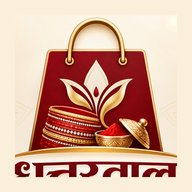
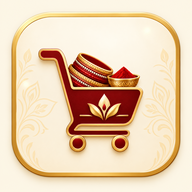
Add files via upload

diff --git a/admin.html b/admin.html
@@ -1,8 +1,8 @@
 <!DOCTYPE html><html lang="en"><head><meta charset="UTF-8"><meta name="viewport" content="width=device-width,initial-scale=1,viewport-fit=cover"><title>DSB Command Center</title><meta name="robots" content="noindex,nofollow"><link rel="preconnect" href="https://fonts.googleapis.com"><link rel="preconnect" href="https://fonts.gstatic.com" crossorigin><link href="https://fonts.googleapis.com/css2?family=Baloo+2:wght@600;700&family=Hind:wght@400;500;600;700&family=Rajdhani:wght@600;700&display=swap" rel="stylesheet"><style>
 :root{--bg:#070a17;--panel:#0d1228;--panel2:#111833;--line:rgba(160,174,255,.14);--text:#eef1ff;--muted:#9aa4c7;--violet:#8b5cf6;--pink:#ec4899;--cyan:#22d3ee;--green:#22c55e;--orange:#f59e0b;--red:#fb7185;--shadow:0 24px 70px rgba(0,0,0,.38)}
 *{box-sizing:border-box}html{background:var(--bg)}body{margin:0;background:radial-gradient(900px 650px at 78% -10%,rgba(111,66,193,.14),transparent 60%),radial-gradient(700px 500px at -5% 80%,rgba(34,211,238,.07),transparent 60%),var(--bg);color:var(--text);font-family:Hind,system-ui,sans-serif;min-height:100vh}button,input,select,textarea{font:inherit}button{cursor:pointer}.hint{color:var(--muted)!important}.primary-btn,.ghost-btn{border-radius:14px;padding:11px 15px;font-weight:700}.primary-btn{border:0;background:linear-gradient(135deg,var(--violet),var(--pink));color:white;box-shadow:0 12px 28px rgba(139,92,246,.22)}.ghost-btn{background:rgba(255,255,255,.035);border:1px solid var(--line);color:var(--text)}label{display:block;color:#b8c1df;font-size:12px;font-weight:700;margin:13px 0 6px}input,select,textarea{width:100%;background:rgba(5,8,22,.55);border:1px solid var(--line);border-radius:14px;color:var(--text);padding:12px 14px;outline:none;transition:.2s}input:focus,select:focus,textarea:focus{border-color:rgba(139,92,246,.75);box-shadow:0 0 0 4px rgba(139,92,246,.11)}textarea{min-height:100px}.row2{display:grid;grid-template-columns:1fr 1fr;gap:14px}.statusline{font-size:12px;margin-top:8px}.statusline.ok{color:#4ade80}.statusline.err{color:#fb7185}
-/* connection */.connect-screen{min-height:100vh;display:grid;place-items:center;padding:22px;background:radial-gradient(circle at 50% 20%,rgba(139,92,246,.22),transparent 40%)}.connect-card{width:min(430px,100%);padding:34px;border:1px solid var(--line);border-radius:28px;background:linear-gradient(145deg,rgba(19,25,53,.96),rgba(8,11,28,.96));box-shadow:var(--shadow)}.connect-logo{width:66px;height:66px;display:grid;place-items:center;border-radius:22px;background:linear-gradient(135deg,var(--violet),var(--pink));font-size:28px;font-weight:900;margin-bottom:18px;box-shadow:0 16px 35px rgba(236,72,153,.24)}.connect-card h1{margin:0;font:700 26px/1.1 'Baloo 2',sans-serif}.connect-card .sub{color:var(--muted);font-size:13px;margin:4px 0 20px}
-/* shell */.admin-app{display:none;min-height:100vh}.admin-sidebar{position:fixed;inset:0 auto 0 0;width:254px;padding:18px 14px;border-right:1px solid var(--line);background:linear-gradient(180deg,rgba(10,14,34,.98),rgba(6,9,22,.98));z-index:40;display:flex;flex-direction:column}.admin-brand{display:flex;gap:12px;align-items:center;padding:8px 10px 26px}.admin-brand-mark{width:50px;height:50px;border-radius:17px;display:grid;place-items:center;background:linear-gradient(135deg,#ff5f6d,#ffc371);font-size:24px;box-shadow:0 15px 35px rgba(255,95,109,.18)}.admin-brand b{font-size:29px;letter-spacing:.04em;background:linear-gradient(90deg,#ff7b54,#d59cff);-webkit-background-clip:text;color:transparent}.admin-brand small{display:block;color:#8792b6;font:700 10px Rajdhani,sans-serif;letter-spacing:.16em}.admin-nav{display:grid;gap:7px}.admin-nav button{display:flex;align-items:center;gap:13px;text-align:left;color:#aab3d0;background:transparent;border:1px solid transparent;border-radius:14px;padding:13px 14px;font-weight:700;transition:.2s}.admin-nav button:hover{background:rgba(255,255,255,.035);color:#fff}.admin-nav button.active{color:white;background:linear-gradient(90deg,rgba(139,92,246,.75),rgba(236,72,153,.45));border-color:rgba(217,70,239,.45);box-shadow:0 10px 30px rgba(139,92,246,.18)}.nav-ico{font-size:19px;width:24px;text-align:center}.admin-side-bottom{margin-top:auto}.admin-side-mini{border:1px solid var(--line);border-radius:18px;padding:14px;color:#8994b8;font:700 10px Rajdhani,sans-serif;letter-spacing:.12em}.admin-side-mini a{display:block;color:#d9ddf0;text-decoration:none;letter-spacing:0;font:600 13px Hind,sans-serif;margin-top:5px}.admin-main{margin-left:254px;min-width:0}.admin-topbar{position:sticky;top:0;height:76px;z-index:30;display:flex;align-items:center;justify-content:space-between;padding:0 30px;border-bottom:1px solid var(--line);background:rgba(7,10,23,.78);backdrop-filter:blur(22px)}.topbar-search{width:min(430px,40vw);display:flex;align-items:center;gap:9px;border:1px solid var(--line);background:rgba(17,24,51,.75);padding:10px 14px;border-radius:13px;color:var(--muted)}.topbar-search input{border:0;padding:0;background:transparent;box-shadow:none;color:#cfd6ef}.top-actions{display:flex;align-items:center;gap:11px}.live-pill{border:1px solid rgba(34,197,94,.25);background:rgba(34,197,94,.08);color:#74e89b;border-radius:999px;padding:7px 10px;font:700 11px Rajdhani,sans-serif;letter-spacing:.1em}.view-store{color:#dbe2ff;text-decoration:none;border:1px solid var(--line);padding:8px 12px;border-radius:12px;font-size:12px}.admin-tab{display:none;width:min(1440px,100%);margin:auto;padding:28px 30px 42px}.admin-tab.active{display:block}.admin-section-title{font:700 30px/1.1 'Baloo 2',sans-serif;margin:0;color:#fff}.section-sub{color:var(--muted);margin:5px 0 18px;font-size:13px}
+/* connection */.connect-screen{min-height:100vh;display:grid;place-items:center;padding:22px;background:radial-gradient(circle at 50% 20%,rgba(139,92,246,.22),transparent 40%)}.connect-card{width:min(430px,100%);padding:34px;border:1px solid var(--line);border-radius:28px;background:linear-gradient(145deg,rgba(19,25,53,.96),rgba(8,11,28,.96));box-shadow:var(--shadow)}.connect-logo{width:66px;height:66px;display:grid;place-items:center;border-radius:22px;background:linear-gradient(135deg,var(--violet),var(--pink));margin-bottom:18px;box-shadow:0 16px 35px rgba(236,72,153,.24);overflow:hidden}.connect-logo img{width:100%;height:100%;display:block;object-fit:cover}.connect-card h1{margin:0;font:700 26px/1.1 'Baloo 2',sans-serif}.connect-card .sub{color:var(--muted);font-size:13px;margin:4px 0 20px}
+/* shell */.admin-app{display:none;min-height:100vh}.admin-sidebar{position:fixed;inset:0 auto 0 0;width:254px;padding:18px 14px;border-right:1px solid var(--line);background:linear-gradient(180deg,rgba(10,14,34,.98),rgba(6,9,22,.98));z-index:40;display:flex;flex-direction:column}.admin-brand{display:flex;gap:12px;align-items:center;padding:8px 10px 26px}.admin-brand-mark{width:50px;height:50px;border-radius:17px;display:grid;place-items:center;background:linear-gradient(135deg,#ff5f6d,#ffc371);box-shadow:0 15px 35px rgba(255,95,109,.18);overflow:hidden}.admin-brand-mark img{width:100%;height:100%;display:block;object-fit:cover}.admin-brand b{font-size:29px;letter-spacing:.04em;background:linear-gradient(90deg,#ff7b54,#d59cff);-webkit-background-clip:text;color:transparent}.admin-brand small{display:block;color:#8792b6;font:700 10px Rajdhani,sans-serif;letter-spacing:.16em}.admin-nav{display:grid;gap:7px}.admin-nav button{display:flex;align-items:center;gap:13px;text-align:left;color:#aab3d0;background:transparent;border:1px solid transparent;border-radius:14px;padding:13px 14px;font-weight:700;transition:.2s}.admin-nav button:hover{background:rgba(255,255,255,.035);color:#fff}.admin-nav button.active{color:white;background:linear-gradient(90deg,rgba(139,92,246,.75),rgba(236,72,153,.45));border-color:rgba(217,70,239,.45);box-shadow:0 10px 30px rgba(139,92,246,.18)}.nav-ico{font-size:19px;width:24px;text-align:center}.admin-side-bottom{margin-top:auto}.admin-side-mini{border:1px solid var(--line);border-radius:18px;padding:14px;color:#8994b8;font:700 10px Rajdhani,sans-serif;letter-spacing:.12em}.admin-side-mini a{display:block;color:#d9ddf0;text-decoration:none;letter-spacing:0;font:600 13px Hind,sans-serif;margin-top:5px}.admin-main{margin-left:254px;min-width:0}.admin-topbar{position:sticky;top:0;height:76px;z-index:30;display:flex;align-items:center;justify-content:space-between;padding:0 30px;border-bottom:1px solid var(--line);background:rgba(7,10,23,.78);backdrop-filter:blur(22px)}.topbar-search{width:min(430px,40vw);display:flex;align-items:center;gap:9px;border:1px solid var(--line);background:rgba(17,24,51,.75);padding:10px 14px;border-radius:13px;color:var(--muted)}.topbar-search input{border:0;padding:0;background:transparent;box-shadow:none;color:#cfd6ef}.top-actions{display:flex;align-items:center;gap:11px}.live-pill{border:1px solid rgba(34,197,94,.25);background:rgba(34,197,94,.08);color:#74e89b;border-radius:999px;padding:7px 10px;font:700 11px Rajdhani,sans-serif;letter-spacing:.1em}.view-store{color:#dbe2ff;text-decoration:none;border:1px solid var(--line);padding:8px 12px;border-radius:12px;font-size:12px}.admin-tab{display:none;width:min(1440px,100%);margin:auto;padding:28px 30px 42px}.admin-tab.active{display:block}.admin-section-title{font:700 30px/1.1 'Baloo 2',sans-serif;margin:0;color:#fff}.section-sub{color:var(--muted);margin:5px 0 18px;font-size:13px}
 /* dashboard command center */.dash-hero{display:flex;justify-content:space-between;gap:20px;align-items:center;margin-bottom:18px;padding:4px 0}.dash-kicker{color:#b99bff;font:700 11px Rajdhani,sans-serif;letter-spacing:.17em}.dash-hero p{margin:7px 0 0;color:var(--muted)}.dash-refresh-icon{width:48px;height:48px;border-radius:15px;border:1px solid var(--line);background:rgba(255,255,255,.035);color:white;font-size:23px}.dash-refresh-icon:hover{transform:rotate(90deg);border-color:var(--cyan)}.dash-attention{display:grid;grid-template-columns:repeat(3,1fr);gap:12px;margin:0 0 16px}.dash-alert{display:flex;align-items:center;gap:12px;text-align:left;padding:14px;border:1px solid var(--line);border-radius:18px;background:linear-gradient(120deg,rgba(255,255,255,.035),rgba(255,255,255,.01));color:var(--text)}.dash-alert:hover{border-color:rgba(236,72,153,.55);transform:translateY(-2px)}.alert-icon{width:42px;height:42px;border-radius:14px;display:grid;place-items:center;background:rgba(236,72,153,.12);font-size:20px}.alert-copy{display:grid;gap:2px}.alert-copy strong{font-size:14px}.alert-copy small{color:var(--muted)}.alert-arrow{margin-left:auto;font-size:26px;color:#bda7ff}.dash-grid{display:grid;grid-template-columns:repeat(4,1fr);gap:13px;margin-bottom:16px}.dash-stat{position:relative;overflow:hidden;min-height:132px;border:1px solid var(--line);border-radius:20px;padding:18px;background:linear-gradient(145deg,rgba(18,25,53,.95),rgba(11,15,34,.95));box-shadow:0 12px 35px rgba(0,0,0,.14)}.dash-stat:before{content:'';position:absolute;width:120px;height:120px;border-radius:50%;right:-50px;top:-55px;background:radial-gradient(circle,rgba(139,92,246,.22),transparent 65%)}.dash-stat:nth-child(2):before{background:radial-gradient(circle,rgba(34,211,238,.19),transparent 65%)}.dash-stat:nth-child(3):before{background:radial-gradient(circle,rgba(34,197,94,.19),transparent 65%)}.dash-stat:nth-child(4):before{background:radial-gradient(circle,rgba(236,72,153,.19),transparent 65%)}.dash-stat-label{position:relative;color:#9ba6c7;font:700 11px Rajdhani,sans-serif;letter-spacing:.1em}.dash-stat-value{position:relative;font:700 31px Rajdhani,sans-serif;margin:11px 0 4px;color:white}.dash-stat-sub{position:relative;color:#8994b8;font-size:12px}.dash-layout{display:grid;grid-template-columns:minmax(0,1.25fr) minmax(340px,.75fr);gap:16px}.dash-stack{display:grid;gap:16px}.dash-panel{border:1px solid var(--line);border-radius:21px;padding:18px;background:linear-gradient(145deg,rgba(15,21,46,.9),rgba(9,13,29,.9));box-shadow:0 16px 45px rgba(0,0,0,.13)}.dash-panel-head{display:flex;align-items:flex-start;justify-content:space-between;gap:14px;margin-bottom:16px}.dash-panel h3{margin:3px 0 0;font:700 18px 'Baloo 2',sans-serif}.dash-panel-value{font:700 18px Rajdhani,sans-serif;color:#67e8f9}.dash-link-btn{background:transparent;border:0;color:#c5b4ff;font-weight:700}.dash-chart{height:260px;display:flex;align-items:flex-end;justify-content:space-between;gap:10px;padding:24px 4px 2px;border-radius:16px;background:linear-gradient(180deg,rgba(139,92,246,.06),transparent);position:relative}.dash-bar-wrap{height:100%;flex:1;display:flex;flex-direction:column;justify-content:flex-end;align-items:center;gap:7px;min-width:20px}.dash-bar{width:min(34px,72%);min-height:8px;border-radius:9px 9px 4px 4px;background:linear-gradient(180deg,#d946ef,#7c3aed);box-shadow:0 0 18px rgba(217,70,239,.35);transition:height .6s ease}.dash-bar-value{font-size:10px;color:#b8c1df;min-height:16px}.dash-bar-label{font:700 10px Rajdhani,sans-serif;color:#7782a7}.dash-chart-empty{margin:auto}.dash-product-row{display:grid;grid-template-columns:25px minmax(90px,1fr) minmax(60px,1.2fr) 72px;gap:9px;align-items:center;padding:9px 0;border-bottom:1px solid rgba(160,174,255,.08)}.dash-rank{width:25px;height:25px;border-radius:9px;display:grid;place-items:center;background:rgba(139,92,246,.15);color:#d4c5ff;font:700 13px Rajdhani,sans-serif}.dash-product-name strong{display:block;font-size:12px;white-space:nowrap;overflow:hidden;text-overflow:ellipsis}.dash-product-meta{font-size:10px;color:var(--muted)}.dash-product-bar-track{height:6px;background:#161e3c;border-radius:999px;overflow:hidden}.dash-product-bar-fill{height:100%;border-radius:999px;background:linear-gradient(90deg,var(--violet),var(--pink))}.dash-product-value{text-align:right;font:700 12px Rajdhani,sans-serif;color:#e6e9ff}.dash-status-bar{height:14px;border-radius:999px;overflow:hidden;background:#151d39;display:flex}.dash-status-seg{display:grid;place-items:center;font-size:9px;color:white;min-width:0}.dash-status-seg.pending{background:var(--orange)}.dash-status-seg.fulfilled{background:var(--green)}.dash-status-seg.cancelled{background:var(--red)}.dash-status-legend{display:flex;gap:9px;flex-wrap:wrap;margin-top:13px}.dash-legend{padding:6px 9px;border-radius:10px;background:rgba(255,255,255,.035);color:var(--muted);font-size:11px}.dash-legend b{color:white}.dash-lowstock-item,.dash-recent-row{display:flex;align-items:center;justify-content:space-between;gap:12px;padding:12px 0;border-bottom:1px solid rgba(160,174,255,.09)}.lowstock-name{font-weight:700;font-size:13px}.lowstock-state{font-size:11px;color:#fbbf24;margin-top:2px}.dash-lowstock-item .qty{font:700 14px Rajdhani,sans-serif;color:#fda4af}.dash-recent-icon{width:39px;height:39px;border-radius:13px;display:grid;place-items:center;background:rgba(34,211,238,.09)}.dash-recent-copy{flex:1;min-width:0}.dash-recent-copy strong{display:block;font-size:13px}.dash-recent-copy span{display:block;color:var(--muted);font-size:10px;white-space:nowrap;overflow:hidden;text-overflow:ellipsis}.dash-recent-total{text-align:right;font:700 14px Rajdhani,sans-serif}.status-pill{display:inline-block;padding:3px 7px;border-radius:999px;font-size:9px;margin-top:3px}.status-pill.pending{background:rgba(245,158,11,.13);color:#fbbf24}.status-pill.fulfilled{background:rgba(34,197,94,.12);color:#86efac}.status-pill.cancelled{background:rgba(251,113,133,.12);color:#fda4af}.dash-quick-actions{display:grid;grid-template-columns:repeat(4,1fr);gap:9px}.dash-quick{min-height:84px;border:1px solid var(--line);border-radius:16px;background:rgba(255,255,255,.025);color:#cfd6ef;display:grid;place-items:center;gap:5px;font-weight:700}.dash-quick:hover{transform:translateY(-2px);border-color:rgba(139,92,246,.65);background:rgba(139,92,246,.08)}.dash-quick span{font-size:22px}
 /* products */#tab-products .admin-section-title,#tab-orders .admin-section-title,#tab-add .admin-section-title{font-size:28px}.search-row{display:flex;margin:16px 0}.search-row input,#orderFilterInput{max-width:620px}.search-row:before{content:'⌕';font-size:20px;color:#8490b7;margin-right:-38px;z-index:1;pointer-events:none;display:grid;place-items:center;width:38px}.search-row input{padding-left:42px}#productList{display:grid;grid-template-columns:repeat(3,minmax(0,1fr));gap:12px}.arow{display:flex;align-items:center;gap:11px;padding:12px;border:1px solid var(--line);border-radius:18px;background:linear-gradient(145deg,rgba(18,24,50,.92),rgba(10,14,30,.92));transition:.2s}.arow:hover{transform:translateY(-2px);border-color:rgba(139,92,246,.45)}.arow-thumb{width:58px;height:58px;object-fit:cover;border-radius:14px;background:#151d39}.arow-body{min-width:0;flex:1;overflow:hidden}.arow-title{font-weight:700;white-space:nowrap;overflow:hidden;text-overflow:ellipsis}.arow-sub{font-size:10px;color:var(--muted);margin-top:3px;white-space:nowrap;overflow:hidden;text-overflow:ellipsis}.arow-actions{display:flex;gap:5px;flex:0 0 auto}.arow-actions button{width:34px;height:34px;border-radius:10px;background:rgba(255,255,255,.04);border:1px solid var(--line);color:white}.arow-actions .danger{border-color:rgba(251,113,133,.3)}
 /* forms */#tab-add{max-width:900px}.upload-row{display:flex;gap:9px;align-items:center}.upload-row input[type=file]{padding:9px}.img-preview img{width:110px;height:110px;border-radius:17px;object-fit:cover;border:1px solid var(--line);margin-top:8px}.extra-images-preview{display:flex;flex-wrap:wrap;gap:9px;margin-top:10px}.extra-thumb{position:relative;width:76px;height:76px}.extra-thumb img{width:100%;height:100%;object-fit:cover;border-radius:14px;border:1px solid var(--line)}.extra-thumb button{position:absolute;right:-5px;top:-5px;width:23px;height:23px;border-radius:50%;border:0;background:#fb7185;color:#111}
@@ -11,8 +11,8 @@
 @media(max-width:900px){.admin-sidebar{display:none}.admin-main{margin-left:0}.admin-topbar{padding:0 14px;height:68px}.topbar-search{width:45vw}.admin-tab{padding:20px 14px 95px}.admin-tabbar{position:fixed;display:flex;justify-content:space-around;left:0;right:0;bottom:0;z-index:50;padding:8px max(8px,env(safe-area-inset-left)) calc(8px + env(safe-area-inset-bottom));background:rgba(7,10,23,.92);backdrop-filter:blur(18px);border-top:1px solid var(--line)}.admin-tabbar button{flex:1;min-height:52px;background:transparent;border:0;color:#8994b8;display:grid;gap:3px;place-items:center;font-size:10px;touch-action:manipulation;-webkit-tap-highlight-color:transparent}.admin-tabbar button.active{color:#d6c8ff}.tab-icon{font-size:19px}.dash-attention{grid-template-columns:1fr}.dash-quick-actions{grid-template-columns:repeat(4,1fr)}}
 @media(max-width:560px){.topbar-search{display:none}.view-store{font-size:10px;padding:7px 9px}.live-pill{font-size:9px}.admin-section-title{font-size:26px}.dash-grid{grid-template-columns:1fr 1fr;gap:9px}.dash-stat{min-height:112px;padding:14px}.dash-stat-value{font-size:25px}.dash-chart{height:210px}.dash-layout{gap:11px}.dash-panel{padding:14px;border-radius:18px}.dash-quick-actions{grid-template-columns:repeat(2,1fr)}#productList{grid-template-columns:1fr}.arow{display:grid;grid-template-columns:52px minmax(0,1fr) auto;gap:9px;padding:10px;min-width:0;overflow:hidden}.arow-thumb{width:52px;height:52px}.arow-actions button{width:38px;height:38px}.row2{grid-template-columns:1fr}.upload-row{flex-wrap:wrap}.dash-product-row{grid-template-columns:24px minmax(75px,1fr) 1fr 62px}.dash-product-value{font-size:11px}.order-controls{flex-direction:column}.dash-hero{align-items:flex-start}.dash-hero .admin-section-title{font-size:28px}}
 </style></head><body><!-- ===== Connect screen ===== -->
-<div class="connect-screen" id="connectScreen"><div class="connect-card"><div class="connect-logo">D</div><h1>DSB Command Center</h1><div class="sub">Securely connect your store workspace</div><div class="field"><label>Apps Script URL</label><input type="text" id="apiUrl" placeholder="https://script.google.com/macros/s/XXXX/exec"></div><div class="field"><label>Admin key</label><input type="password" id="adminKey" placeholder="Enter admin key"></div><button class="primary-btn" id="connectBtn" style="width:100%;margin-top:10px">Launch dashboard →</button><div class="statusline" id="connectStatus"></div><div style="margin-top:16px"><a href="index.html" style="color:#aab3d0;font-size:12px;text-decoration:none">← Back to store</a></div></div></div><!-- ===== Main app ===== -->
-<div class="admin-app" id="adminApp"><aside class="admin-sidebar" aria-label="Admin navigation"><div class="admin-brand"><div class="admin-brand-mark">🛍</div><div><b>DSB</b><small>ADMIN PANEL</small></div></div><nav class="admin-nav"><button type="button" class="active" data-tab="dashboard"><span class="nav-ico">⌂</span>Dashboard</button><button type="button" data-tab="orders"><span class="nav-ico">🛒</span>Orders</button><button type="button" data-tab="products"><span class="nav-ico">◈</span>Products</button><button type="button" data-tab="add"><span class="nav-ico">＋</span>Add product</button></nav><div class="admin-side-bottom"><div class="admin-side-mini">STORE STATUS<br><a href="index.html">● Live storefront ↗</a></div></div></aside><main class="admin-main"><header class="admin-topbar"><div class="topbar-search"><span>⌕</span><input aria-label="Search" placeholder="Search workspace..."><kbd style="margin-left:auto;color:#6f7a9d;font-size:10px">CTRL K</kbd></div><div class="top-actions"><span class="live-pill">● LIVE</span><a class="view-store" href="index.html">View store ↗</a></div></header>  <!-- Products tab -->
+<div class="connect-screen" id="connectScreen"><div class="connect-card"><div class="connect-logo"><img src="icon-192.png" alt="Suhag Bhandar"></div><h1>DSB Command Center</h1><div class="sub">Securely connect your store workspace</div><div class="field"><label>Apps Script URL</label><input type="text" id="apiUrl" placeholder="https://script.google.com/macros/s/XXXX/exec"></div><div class="field"><label>Admin key</label><input type="password" id="adminKey" placeholder="Enter admin key"></div><button class="primary-btn" id="connectBtn" style="width:100%;margin-top:10px">Launch dashboard →</button><div class="statusline" id="connectStatus"></div><div style="margin-top:16px"><a href="index.html" style="color:#aab3d0;font-size:12px;text-decoration:none">← Back to store</a></div></div></div><!-- ===== Main app ===== -->
+<div class="admin-app" id="adminApp"><aside class="admin-sidebar" aria-label="Admin navigation"><div class="admin-brand"><div class="admin-brand-mark"><img src="icon-192.png" alt="Suhag Bhandar"></div><div><b>SB</b><small>ADMIN PANEL</small></div></div><nav class="admin-nav"><button type="button" class="active" data-tab="dashboard"><span class="nav-ico">⌂</span>Dashboard</button><button type="button" data-tab="orders"><span class="nav-ico">🛒</span>Orders</button><button type="button" data-tab="products"><span class="nav-ico">◈</span>Products</button><button type="button" data-tab="add"><span class="nav-ico">＋</span>Add product</button></nav><div class="admin-side-bottom"><div class="admin-side-mini">STORE STATUS<br><a href="index.html">● Live storefront ↗</a></div></div></aside><main class="admin-main"><header class="admin-topbar"><div class="topbar-search"><span>⌕</span><input aria-label="Search" placeholder="Search workspace..."><kbd style="margin-left:auto;color:#6f7a9d;font-size:10px">CTRL K</kbd></div><div class="top-actions"><span class="live-pill">● LIVE</span><a class="view-store" href="index.html">View store ↗</a></div></header>  <!-- Products tab -->
   <div class="admin-tab" id="tab-products">
     <div class="admin-section-title">Products (<span id="countLabel">0</span>)</div>
     <div class="search-row"><input type="text" id="filterInput" placeholder="Search products…"></div>

diff --git a/style.css b/style.css
@@ -1035,7 +1035,7 @@ a.name{ display:-webkit-box; cursor:pointer; }
 body{background:linear-gradient(180deg,#fff8ef 0%,#fff4fb 48%,#f7f5ff 100%)}
 .app-loader{position:fixed;inset:0;z-index:9999;display:grid;place-items:center;align-content:center;background:radial-gradient(circle at 50% 35%,#302659 0%,#151126 45%,#090812 100%);transition:opacity .55s ease,visibility .55s ease;font-family:var(--font-utility);letter-spacing:.08em;}
 .app-loader.hide{opacity:0;visibility:hidden;pointer-events:none}.loader-orbit{position:absolute;width:84px;height:84px;border-radius:50%;border:2px solid rgba(255,255,255,.12);border-top-color:var(--cyan);border-right-color:var(--neon);animation:spin 1.1s linear infinite}.loader-logo{height:54px;display:grid;place-items:center;background:linear-gradient(135deg,var(--rani),#7d5cff);font-weight:800;}@keyframes spin{to{transform:rotate(360deg)}}
-.stickybar{height:62px;padding:0 16px;background:rgba(255,250,245,.66);box-shadow:0 8px 28px rgba(36,25,70,.06);}.stickybar.solid{background:rgba(255,250,247,.9);}.stickybar .brandmark .glyph{width:34px;height:34px;border-radius:12px;box-shadow:0 7px 20px rgba(200,17,99,.3)}.searchwrap{height:42px;background:rgba(255,255,255,.72);box-shadow:inset 0 1px 0 #fff,0 4px 18px rgba(32,27,61,.05)}.iconbtn{width:42px;height:42px;border-radius:14px;transition:transform .25s,background .25s}.iconbtn:hover{transform:translateY(-2px);background:rgba(200,17,99,.08)}
+.stickybar{height:62px;padding:0 16px;background:rgba(255,250,245,.66);box-shadow:0 8px 28px rgba(36,25,70,.06);}.stickybar.solid{background:rgba(255,250,247,.9);}.stickybar .brandmark .glyph{width:34px;height:34px;border-radius:12px;display:block;object-fit:cover;box-shadow:0 7px 20px rgba(200,17,99,.3)}.searchwrap{height:42px;background:rgba(255,255,255,.72);box-shadow:inset 0 1px 0 #fff,0 4px 18px rgba(32,27,61,.05)}.iconbtn{width:42px;height:42px;border-radius:14px;transition:transform .25s,background .25s}.iconbtn:hover{transform:translateY(-2px);background:rgba(200,17,99,.08)}
 .hero{padding:54px clamp(20px,5vw,70px) 34px;background:radial-gradient(circle at 15% 20%,rgba(99,230,255,.24),transparent 25%),radial-gradient(circle at 82% 18%,rgba(255,79,154,.36),transparent 28%),linear-gradient(135deg,#15112d,#25184a 48%,#16122c);}.hero:after{content:"";position:absolute;inset:0;z-index:-1;opacity:.25;background-image:linear-gradient(rgba(255,255,255,.08) 1px,transparent 1px),linear-gradient(90deg,rgba(255,255,255,.08) 1px,transparent 1px);background-size:38px 38px;mask-image:linear-gradient(to bottom,#000,transparent)}.hero-glow{position:absolute;border-radius:50%;filter:blur(20px);opacity:.45;pointer-events:none;animation:floatGlow 7s ease-in-out infinite}.glow-a{width:220px;height:220px;background:#ff2f86;right:-60px;top:45px}.glow-b{width:180px;height:180px;background:#4bdcff;left:-70px;bottom:-40px;animation-delay:-3s}@keyframes floatGlow{50%{transform:translate(20px,-16px) scale(1.08)}}.hero-kicker{display:inline-flex;align-items:center;gap:9px;padding:7px 12px;border:1px solid rgba(255,255,255,.15);border-radius:999px;background:rgba(255,255,255,.08);backdrop-filter:blur(12px);font-family:var(--font-utility);font-size:11px;letter-spacing:.13em}.live-dot{width:7px;height:7px;border-radius:50%;background:#6dffb0;box-shadow:0 0 14px #6dffb0}.hero-title{font-size:clamp(32px,6vw,62px);line-height:.98;white-space:normal;max-width:760px;margin:22px 0 14px;}.hero-title span{background:linear-gradient(90deg,#ffd86b,#ff72b0,#78e8ff);}.hero-subtitle{max-width:620px;margin:0 0 25px;color:rgba(255,255,255,.74);font-size:15px;line-height:1.65}.hero-stats{display:flex;gap:10px;flex-wrap:wrap;margin-bottom:28px}.hero-stats div{display:flex;align-items:center;gap:8px;padding:10px 14px;border-radius:16px;background:rgba(255,255,255,.08);border:1px solid rgba(255,255,255,.11);backdrop-filter:blur(14px)}.hero-stats strong{font-size:17px}.hero-stats span{font-size:12px;color:rgba(255,255,255,.85)}.hero-tiles{max-width:620px;grid-template-columns:repeat(4,minmax(0,1fr));gap:10px}.hero-tile{border-radius:18px;background:rgba(255,255,255,.1);backdrop-filter:blur(18px);transition:transform .3s cubic-bezier(.2,.8,.2,1),background .3s,box-shadow .3s}.hero-tile:hover{transform:translateY(-6px);background:rgba(255,255,255,.17);box-shadow:0 18px 30px rgba(0,0,0,.18)}
 .cat-rail-outer{position:sticky;top:62px;z-index:35;padding-top:12px;background:rgba(255,248,240,.88);backdrop-filter:blur(18px);border-bottom:1px solid rgba(32,27,61,.06)}.chip,.subchip{border-radius:999px;transition:all .25s}.chip:hover,.subchip:hover{transform:translateY(-2px);box-shadow:0 8px 18px rgba(32,27,61,.1)}
 .section-title{margin-top:28px}.grid{padding-bottom:25px}.card{background:rgba(255,255,255,.76);border-radius:22px;}.card:hover{}.card .imgwrap{background:linear-gradient(145deg,#fff,#f0eaff)}.card .addbtn{border-radius:12px;background:linear-gradient(135deg,var(--rani),#ff5798);box-shadow:0 8px 18px rgba(200,17,99,.2)}.carousel-section{}.related-rail{scroll-snap-type:x mandatory}.related-rail .card{scroll-snap-align:start}

diff --git a/pwa-install.js b/pwa-install.js
@@ -37,8 +37,17 @@
     alert('Open your browser menu and choose “Install app” if that option is available.');
   }
 
+  function ensureInstallStyles(){
+    if (document.getElementById('dsb-install-styles')) return;
+    var style = document.createElement('style');
+    style.id = 'dsb-install-styles';
+    style.textContent = '.install-banner{position:fixed;left:50%;bottom:max(18px,env(safe-area-inset-bottom));z-index:1200;width:min(560px,calc(100% - 24px));display:flex;align-items:center;gap:12px;padding:12px 12px 12px 14px;border:1px solid rgba(255,255,255,.32);border-radius:18px;background:rgba(32,27,61,.94);color:#fff6e9;box-shadow:0 18px 45px rgba(32,27,61,.28);backdrop-filter:blur(16px);-webkit-backdrop-filter:blur(16px);transform:translate(-50%,calc(100% + 36px));opacity:0;pointer-events:none;transition:transform .35s cubic-bezier(.2,.8,.2,1),opacity .25s ease;box-sizing:border-box}.install-banner.show{transform:translate(-50%,0);opacity:1;pointer-events:auto}.install-banner-mark{width:42px;height:42px;flex:0 0 42px;display:grid;place-items:center;border-radius:13px;overflow:hidden}.install-banner-mark img{width:100%;height:100%;display:block;object-fit:cover}.install-banner-copy{min-width:0;flex:1;display:flex;flex-direction:column;line-height:1.15}.install-banner-copy strong{font-family:inherit;font-size:15px}.install-banner-copy span{margin-top:3px;color:rgba(255,246,233,.76);font-size:12.5px}.install-banner-actions{display:flex;align-items:center;gap:6px;flex:0 0 auto}.install-btn{border:0;border-radius:12px;padding:9px 13px;background:#fff6e9;color:#201b3d;font:700 13px/1 inherit;cursor:pointer}.install-dismiss{width:34px;height:34px;border:0;border-radius:10px;background:transparent;color:rgba(255,255,255,.8);font-size:24px;line-height:1;cursor:pointer}@media(max-width:520px){.install-banner{gap:9px;padding:10px}.install-banner-mark{width:38px;height:38px;flex-basis:38px}.install-banner-copy strong{font-size:13px}.install-banner-copy span{font-size:11px}.install-btn{padding:9px 10px}}@media(max-width:390px){.install-banner{width:calc(100% - 16px);bottom:max(10px,env(safe-area-inset-bottom));gap:7px}.install-banner-copy strong{font-size:12.5px}.install-banner-copy span{display:none}.install-btn{padding:8px 9px}.install-dismiss{width:30px;height:30px}}';
+    document.head.appendChild(style);
+  }
+
   function ensureBanner(mode){
     if (banner || dismissedRecently() || isStandalone) return;
+    ensureInstallStyles();
     var nativeReady = mode === 'native' && !!deferredPrompt;
     var manualIOS = mode === 'ios';
     banner = document.createElement('aside');

diff --git a/index.html b/index.html
@@ -10,7 +10,7 @@
 <meta name="theme-color" content="#C81163">
 <meta name="apple-mobile-web-app-capable" content="yes">
 <meta name="apple-mobile-web-app-status-bar-style" content="default">
-<meta name="apple-mobile-web-app-title" content="DSB Shop">
+<meta name="apple-mobile-web-app-title" content="Suhag Bhandar">
 <link rel="canonical" href="https://suhagbhandar.in/">
 
 <!-- Open Graph (WhatsApp / Facebook / Instagram link previews) -->
@@ -31,7 +31,7 @@
 <link rel="preconnect" href="https://fonts.googleapis.com">
 <link rel="preconnect" href="https://fonts.gstatic.com" crossorigin>
 <link href="https://fonts.googleapis.com/css2?family=Baloo+2:wght@500;600;700;800&family=Hind:wght@400;500;600;700&family=Rajdhani:wght@600;700&display=swap" rel="stylesheet">
-<link rel="stylesheet" href="style.css">
+<link rel="stylesheet" href="style.css?v=20260907b">
 <link rel="manifest" href="manifest.json">
 
 <!-- Local business structured data — fill in the marked fields with your
@@ -71,7 +71,7 @@
 
 <!-- ===== Slim sticky bar: search + cart ONLY ===== -->
 <div class="stickybar" id="stickyBar">
-  <div class="brandmark"><span class="glyph">D</span><span class="hide-sm">DSB</span></div>
+  <div class="brandmark"><img class="glyph" src="icon-192.png" alt="Suhag Bhandar"><span class="hide-sm">Suhag Bhandar</span></div>
   <button class="searchwrap" id="searchTrigger" style="text-align:left;">
     <svg width="16" height="16" viewBox="0 0 24 24" fill="none" stroke="currentColor" stroke-width="2"><circle cx="11" cy="11" r="7"/><line x1="21" y1="21" x2="16.65" y2="16.65"/></svg>
     <span style="color:#8a83a0; font-size:13px;">Search lipstick, notebook, shampoo…</span>
@@ -236,6 +236,6 @@
 </script>
 <div class="toast-v5" id="toastV5" role="status" aria-live="polite"></div>
 <script>document.addEventListener("click",function(e){const b=e.target.closest(".carousel-nav");if(b){const r=document.getElementById(b.dataset.rail);if(r)r.scrollBy({left:Number(b.dataset.dir)*Math.min(520,r.clientWidth*.85),behavior:"smooth"})}});</script>
-<script src="pwa-install.js" defer></script>
+<script src="pwa-install.js?v=20260907b" defer></script>
 </body>
 </html>

diff --git a/product.html b/product.html
@@ -9,7 +9,7 @@
 <meta name="theme-color" content="#C81163">
 <meta name="apple-mobile-web-app-capable" content="yes">
 <meta name="apple-mobile-web-app-status-bar-style" content="default">
-<meta name="apple-mobile-web-app-title" content="DSB Shop">
+<meta name="apple-mobile-web-app-title" content="Suhag Bhandar">
 <link rel="canonical" id="canonicalLink" href="https://suhagbhandar.in/product.html">
 
 <meta property="og:type" content="product">
@@ -28,14 +28,14 @@
 <link rel="preconnect" href="https://fonts.googleapis.com">
 <link rel="preconnect" href="https://fonts.gstatic.com" crossorigin>
 <link href="https://fonts.googleapis.com/css2?family=Baloo+2:wght@500;600;700;800&family=Hind:wght@400;500;600;700&family=Rajdhani:wght@600;700&display=swap" rel="stylesheet">
-<link rel="stylesheet" href="style.css">
+<link rel="stylesheet" href="style.css?v=20260907b">
 <link rel="manifest" href="manifest.json">
 </head>
 <body>
 
 <!-- ===== Slim sticky bar: search + cart ONLY ===== -->
 <div class="stickybar solid" id="stickyBar">
-  <a class="brandmark" href="index.html"><span class="glyph">D</span><span class="hide-sm">DSB</span></a>
+  <a class="brandmark" href="index.html"><img class="glyph" src="icon-192.png" alt="Suhag Bhandar"><span class="hide-sm">Suhag Bhandar</span></a>
   <button class="searchwrap" id="searchTrigger" style="text-align:left;">
     <svg width="16" height="16" viewBox="0 0 24 24" fill="none" stroke="currentColor" stroke-width="2"><circle cx="11" cy="11" r="7"/><line x1="21" y1="21" x2="16.65" y2="16.65"/></svg>
     <span style="color:#8a83a0; font-size:13px;">Search the shop…</span>
@@ -104,6 +104,6 @@
 <script src="render-helpers.js"></script>
 <script src="cart-ui.js"></script>
 <script src="product.js"></script>
-<script src="pwa-install.js" defer></script>
+<script src="pwa-install.js?v=20260907b" defer></script>
 </body>
 </html>

diff --git a/contact.html b/contact.html
@@ -9,7 +9,7 @@
 <meta name="theme-color" content="#C81163">
 <meta name="apple-mobile-web-app-capable" content="yes">
 <meta name="apple-mobile-web-app-status-bar-style" content="default">
-<meta name="apple-mobile-web-app-title" content="DSB Shop">
+<meta name="apple-mobile-web-app-title" content="Suhag Bhandar">
 <link rel="canonical" href="https://suhagbhandar.in/contact.html">
 
 <meta property="og:type" content="website">
@@ -23,14 +23,14 @@
 <link rel="preconnect" href="https://fonts.googleapis.com">
 <link rel="preconnect" href="https://fonts.gstatic.com" crossorigin>
 <link href="https://fonts.googleapis.com/css2?family=Baloo+2:wght@500;600;700;800&family=Hind:wght@400;500;600;700&family=Rajdhani:wght@600;700&display=swap" rel="stylesheet">
-<link rel="stylesheet" href="style.css">
+<link rel="stylesheet" href="style.css?v=20260907b">
 <link rel="manifest" href="manifest.json">
 </head>
 <body>
 
 <!-- ===== Slim sticky bar: search + cart ONLY ===== -->
 <div class="stickybar solid" id="stickyBar">
-  <a class="brandmark" href="index.html"><span class="glyph">D</span><span class="hide-sm">DSB</span></a>
+  <a class="brandmark" href="index.html"><img class="glyph" src="icon-192.png" alt="Suhag Bhandar"><span class="hide-sm">Suhag Bhandar</span></a>
   <button class="searchwrap" id="searchTrigger" style="text-align:left;">
     <svg width="16" height="16" viewBox="0 0 24 24" fill="none" stroke="currentColor" stroke-width="2"><circle cx="11" cy="11" r="7"/><line x1="21" y1="21" x2="16.65" y2="16.65"/></svg>
     <span style="color:#8a83a0; font-size:13px;">Search the shop…</span>
@@ -146,6 +146,6 @@
     initWhatsAppFloat();
   });
 </script>
-<script src="pwa-install.js" defer></script>
+<script src="pwa-install.js?v=20260907b" defer></script>
 </body>
 </html>

diff --git a/about.html b/about.html
@@ -9,7 +9,7 @@
 <meta name="theme-color" content="#C81163">
 <meta name="apple-mobile-web-app-capable" content="yes">
 <meta name="apple-mobile-web-app-status-bar-style" content="default">
-<meta name="apple-mobile-web-app-title" content="DSB Shop">
+<meta name="apple-mobile-web-app-title" content="Suhag Bhandar">
 <link rel="canonical" href="https://suhagbhandar.in/about.html">
 
 <meta property="og:type" content="website">
@@ -23,14 +23,14 @@
 <link rel="preconnect" href="https://fonts.googleapis.com">
 <link rel="preconnect" href="https://fonts.gstatic.com" crossorigin>
 <link href="https://fonts.googleapis.com/css2?family=Baloo+2:wght@500;600;700;800&family=Hind:wght@400;500;600;700&family=Rajdhani:wght@600;700&display=swap" rel="stylesheet">
-<link rel="stylesheet" href="style.css">
+<link rel="stylesheet" href="style.css?v=20260907b">
 <link rel="manifest" href="manifest.json">
 </head>
 <body>
 
 <!-- ===== Slim sticky bar: search + cart ONLY ===== -->
 <div class="stickybar solid" id="stickyBar">
-  <a class="brandmark" href="index.html"><span class="glyph">D</span><span class="hide-sm">DSB</span></a>
+  <a class="brandmark" href="index.html"><img class="glyph" src="icon-192.png" alt="Suhag Bhandar"><span class="hide-sm">Suhag Bhandar</span></a>
   <button class="searchwrap" id="searchTrigger" style="text-align:left;">
     <svg width="16" height="16" viewBox="0 0 24 24" fill="none" stroke="currentColor" stroke-width="2"><circle cx="11" cy="11" r="7"/><line x1="21" y1="21" x2="16.65" y2="16.65"/></svg>
     <span style="color:#8a83a0; font-size:13px;">Search the shop…</span>
@@ -140,6 +140,6 @@
     initWhatsAppFloat();
   });
 </script>
-<script src="pwa-install.js" defer></script>
+<script src="pwa-install.js?v=20260907b" defer></script>
 </body>
 </html>

diff --git a/privacy.html b/privacy.html
@@ -9,18 +9,18 @@
 <meta name="theme-color" content="#C81163">
 <meta name="apple-mobile-web-app-capable" content="yes">
 <meta name="apple-mobile-web-app-status-bar-style" content="default">
-<meta name="apple-mobile-web-app-title" content="DSB Shop">
+<meta name="apple-mobile-web-app-title" content="Suhag Bhandar">
 <link rel="canonical" href="https://suhagbhandar.in/privacy.html">
 <link rel="preconnect" href="https://fonts.googleapis.com">
 <link rel="preconnect" href="https://fonts.gstatic.com" crossorigin>
 <link href="https://fonts.googleapis.com/css2?family=Baloo+2:wght@500;600;700;800&family=Hind:wght@400;500;600;700&family=Rajdhani:wght@600;700&display=swap" rel="stylesheet">
-<link rel="stylesheet" href="style.css">
+<link rel="stylesheet" href="style.css?v=20260907b">
 <link rel="manifest" href="manifest.json">
 </head>
 <body>
 
 <div class="stickybar solid" id="stickyBar">
-  <a class="brandmark" href="index.html"><span class="glyph">D</span><span class="hide-sm">DSB</span></a>
+  <a class="brandmark" href="index.html"><img class="glyph" src="icon-192.png" alt="Suhag Bhandar"><span class="hide-sm">Suhag Bhandar</span></a>
   <button class="searchwrap" id="searchTrigger" style="text-align:left;">
     <svg width="16" height="16" viewBox="0 0 24 24" fill="none" stroke="currentColor" stroke-width="2"><circle cx="11" cy="11" r="7"/><line x1="21" y1="21" x2="16.65" y2="16.65"/></svg>
     <span style="color:#8a83a0; font-size:13px;">Search the shop…</span>
@@ -118,6 +118,6 @@
     initWhatsAppFloat();
   });
 </script>
-<script src="pwa-install.js" defer></script>
+<script src="pwa-install.js?v=20260907b" defer></script>
 </body>
 </html>

diff --git a/returns.html b/returns.html
@@ -9,18 +9,18 @@
 <meta name="theme-color" content="#C81163">
 <meta name="apple-mobile-web-app-capable" content="yes">
 <meta name="apple-mobile-web-app-status-bar-style" content="default">
-<meta name="apple-mobile-web-app-title" content="DSB Shop">
+<meta name="apple-mobile-web-app-title" content="Suhag Bhandar">
 <link rel="canonical" href="https://suhagbhandar.in/returns.html">
 <link rel="preconnect" href="https://fonts.googleapis.com">
 <link rel="preconnect" href="https://fonts.gstatic.com" crossorigin>
 <link href="https://fonts.googleapis.com/css2?family=Baloo+2:wght@500;600;700;800&family=Hind:wght@400;500;600;700&family=Rajdhani:wght@600;700&display=swap" rel="stylesheet">
-<link rel="stylesheet" href="style.css">
+<link rel="stylesheet" href="style.css?v=20260907b">
 <link rel="manifest" href="manifest.json">
 </head>
 <body>
 
 <div class="stickybar solid" id="stickyBar">
-  <a class="brandmark" href="index.html"><span class="glyph">D</span><span class="hide-sm">DSB</span></a>
+  <a class="brandmark" href="index.html"><img class="glyph" src="icon-192.png" alt="Suhag Bhandar"><span class="hide-sm">Suhag Bhandar</span></a>
   <button class="searchwrap" id="searchTrigger" style="text-align:left;">
     <svg width="16" height="16" viewBox="0 0 24 24" fill="none" stroke="currentColor" stroke-width="2"><circle cx="11" cy="11" r="7"/><line x1="21" y1="21" x2="16.65" y2="16.65"/></svg>
     <span style="color:#8a83a0; font-size:13px;">Search the shop…</span>
@@ -117,6 +117,6 @@
     initWhatsAppFloat();
   });
 </script>
-<script src="pwa-install.js" defer></script>
+<script src="pwa-install.js?v=20260907b" defer></script>
 </body>
 </html>

diff --git a/sw.js b/sw.js
@@ -1,5 +1,5 @@
-const CACHE_VERSION = 'dsb-shell-v4';
-const SHELL = ['./','./index.html','./style.css','./manifest.json','./icon-192.png','./icon-512.png'];
+const CACHE_VERSION = 'dsb-shell-v5';
+const SHELL = ['./','./index.html','./style.css?v=20260907b','./manifest.json','./icon-192.png','./icon-512.png'];
 self.addEventListener('install', event => {
   event.waitUntil(caches.open(CACHE_VERSION).then(cache => cache.addAll(SHELL)).catch(()=>{}));
   self.skipWaiting();
